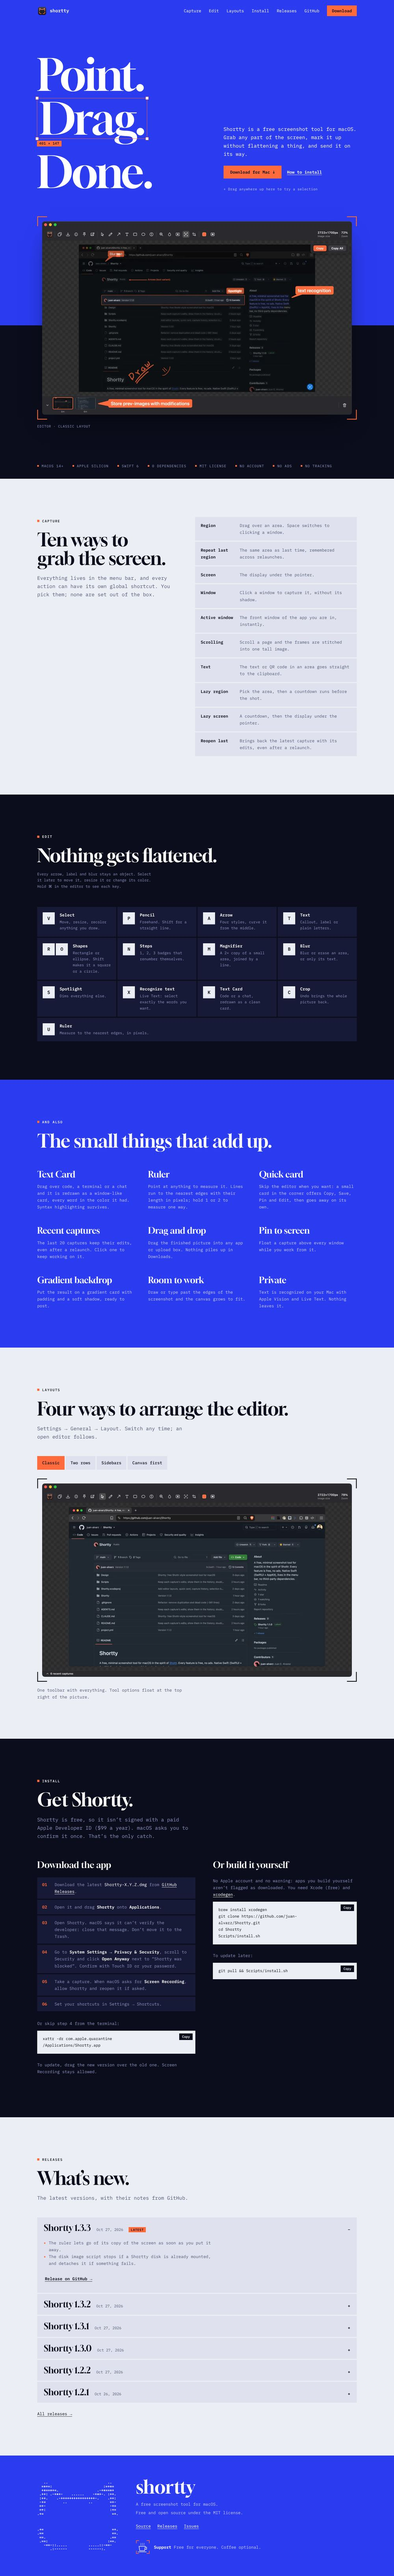
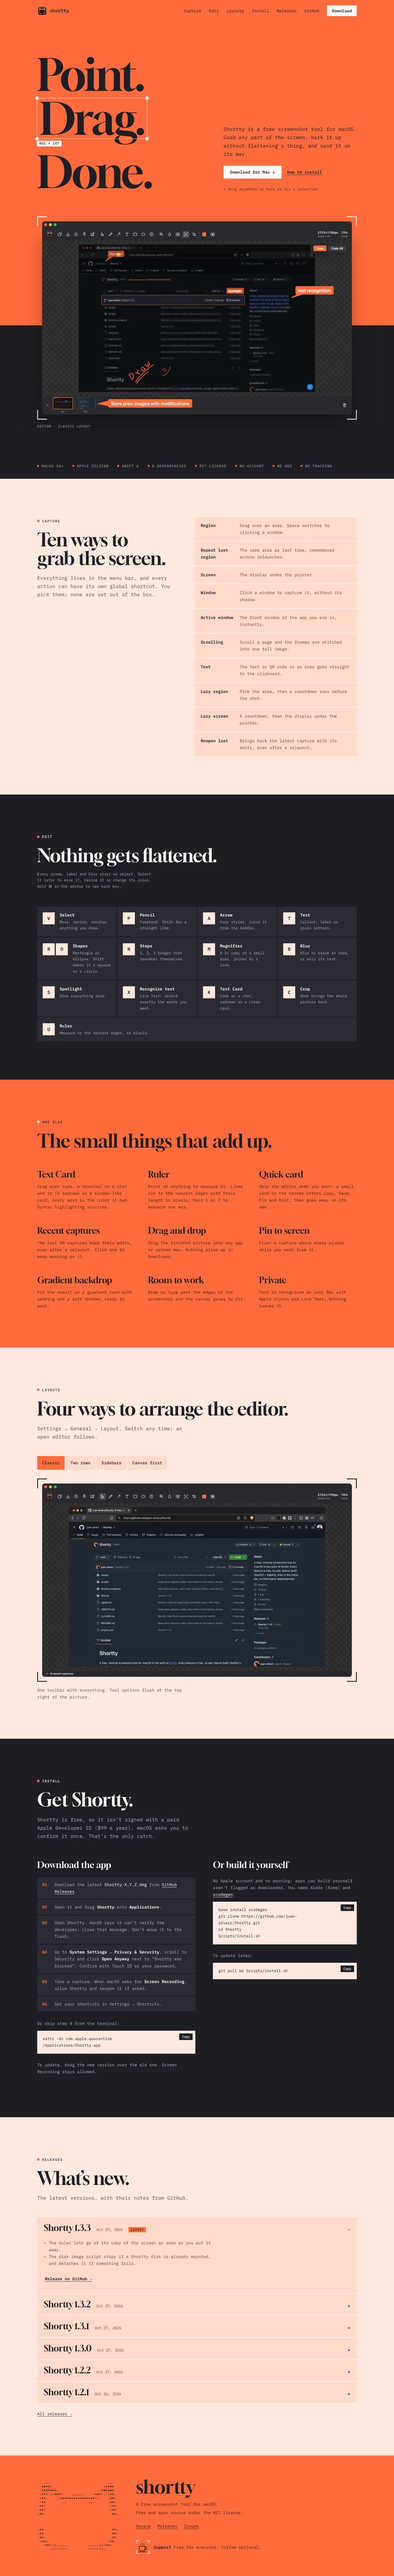
Version 22: Cobalt in cat colors
Version 01's design, layout and fonts unchanged, in version 17's palette:
Shortty orange where 01 had cobalt, the icon's charcoal for ink, blush for
paper. Text on orange is charcoal, as in 17, and on orange surfaces the accent
(frames, corners, buttons, the nav marker) turns cream so it doesn't vanish.

Claude-Session: https://claude.ai/code/session_019xH8RKzocdR7SR5fZcfY1h

diff --git a/src/styles/global.css b/src/styles/global.css
@@ -1,5 +1,6 @@
 /*
-  Layout: the page is a capture surface. Full-width color bands (primary, light, dark),
+  Layout (version 22, cobalt in cat colors): version 01's design, unchanged, in version 17's
+  colors. The page is a capture surface. Full-width color bands (primary, light, dark),
   accent viewfinder corners and selection frames taken from the app icon and the
   app's own selection UI. Sharp corners, no card borders.
 */
@@ -11,18 +12,20 @@
 :root {
   color-scheme: dark;
 
-  /* Color, named by role. Here: primary = cobalt, dark = ink, light = paper, accent = Shortty orange. */
-  --primary: #2b3bf0;
-  --primary-deep: #1f2bc4;
-  --dark: #0b0d1c;
-  --dark-raised: #161a36;
-  --light: #eceef5;
-  --light-raised: #dfe2ee;
+  /* Color, named by role. Version 17's palette: primary = Shortty orange, dark = the icon's
+     charcoal, light = blush, white = cream, accent = Shortty orange (cream on orange surfaces). */
+  --primary: #ff6b3d;
+  --primary-deep: #e8521f;
+  --dark: #1f1e24;
+  --dark-raised: #2c2b33;
+  --light: #ffe9df;
+  --light-raised: #ffd9c9;
   --accent: #ff6b3d;
-  --white: #ffffff;
-  --on-primary-muted: #c6cbff;
-  --on-dark-muted: #8f96c4;
-  --on-light-muted: #525877;
+  --white: #fffaf7;
+  --on-primary: #1f1e24;
+  --on-primary-muted: #4a2418;
+  --on-dark-muted: #b3adb8;
+  --on-light-muted: #6f4d42;
 
   /* Type */
   --display: 'Gloock', 'Iowan Old Style', Georgia, serif;
@@ -66,7 +69,9 @@ code, pre { font-family: var(--mono); }
 
 /* A full-width color band with a centered inner column. */
 .band { padding-block: clamp(72px, 10vw, 140px); }
-.band.primary { background: var(--primary); color: var(--white); }
+.band.primary { background: var(--primary); color: var(--on-primary); }
+/* On orange surfaces an orange accent would vanish: there frames, corners and buttons go cream. */
+.band.primary, .hero, .navbar { --accent: var(--white); }
 .band.light { background: var(--light); color: var(--dark); }
 .band.dark { background: var(--dark); color: var(--white); }
 
